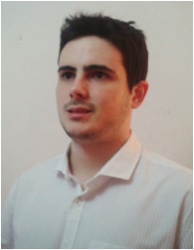
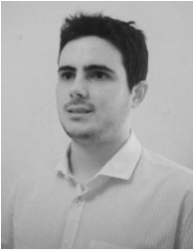
Añaido icono y enlaces de linkedin. Cambio de color de las fotografias.

diff --git a/templates/webapp/corporative.html b/templates/webapp/corporative.html
@@ -172,13 +172,15 @@
 
                         <p class="email-white">sergaralo@eathub.me</p>
 
+                        <p><a href="es.linkedin.com/pub/sergio-garcia-alonso/48/979/158/"><img src="{% static 'webapp/image/linkedin-icon.png' %}"></a></p>
+
                     </div>
 
                     <!-- Image from right -->
 
                     <div class="col-md-5">
 
-                        <img class="border" src="{% static 'webapp/image/sergiog2.png' %}">
+                        <img class="border" src="{% static 'webapp/image/sergiog.png' %}">
 
                     </div>
 
@@ -218,6 +220,8 @@
 
                         <p class="email-white">jesgonbel@eathub.me</p>
 
+                        <p><a href=""><img src="{% static 'webapp/image/linkedin-icon.png' %}"></a></p>
+
                     </div>
 
 
@@ -246,6 +250,8 @@
 
                         <p class="email-white">artjimlop@eathub.me</p>
 
+                        <p><a href="es.linkedin.com/pub/arturo-jiménez-lópez/89/a8/568"><img src="{% static 'webapp/image/linkedin-icon.png' %}"></a></p>
+
                     </div>
 
                     <!-- Image from right -->
@@ -271,7 +277,7 @@
 
                     <div class="col-md-5">
 
-                        <img class="border" src="{% static 'webapp/image/antonio2.png' %}">
+                        <img class="border" src="{% static 'webapp/image/antonio.png' %}">
 
                     </div>
 
@@ -286,6 +292,8 @@
                         <p class="rol">Analista y Tester</p>
 
                         <p class="email-white">antleocar@eathub.me</p>
+
+                        <p><a href=""><img src="{% static 'webapp/image/linkedin-icon.png' %}"></a></p>
 
                     </div>
 
@@ -314,6 +322,8 @@
                         <p class="rol">Desarrollador</p>
 
                         <p class="email-white">jualoppaz@eathub.me</p>
+
+                        <p><a href="es.linkedin.com/pub/juan-manuel-lopez-pazos/63/469/4a9"><img src="{% static 'webapp/image/linkedin-icon.png' %}"></a></p>
 
                     </div>
 
@@ -356,6 +366,8 @@
 
                         <p class="email-white">serrodcal@eathub.me</p>
 
+                        <p><a href="es.linkedin.com/pub/sergio-rodríguez-calvo/97/b79/38b"><img src="{% static 'webapp/image/linkedin-icon.png' %}"></a></p>
+
                     </div>
 
 
@@ -384,6 +396,8 @@
                         <p class="rol">Jefe de desarrollo</p>
 
                         <p class="email-white">rafvazsan@eathub.me</p>
+
+                        <p><a href="es.linkedin.com/in/sloydev"><img src="{% static 'webapp/image/linkedin-icon.png' %}"></a></p>
 
                     </div>
 
